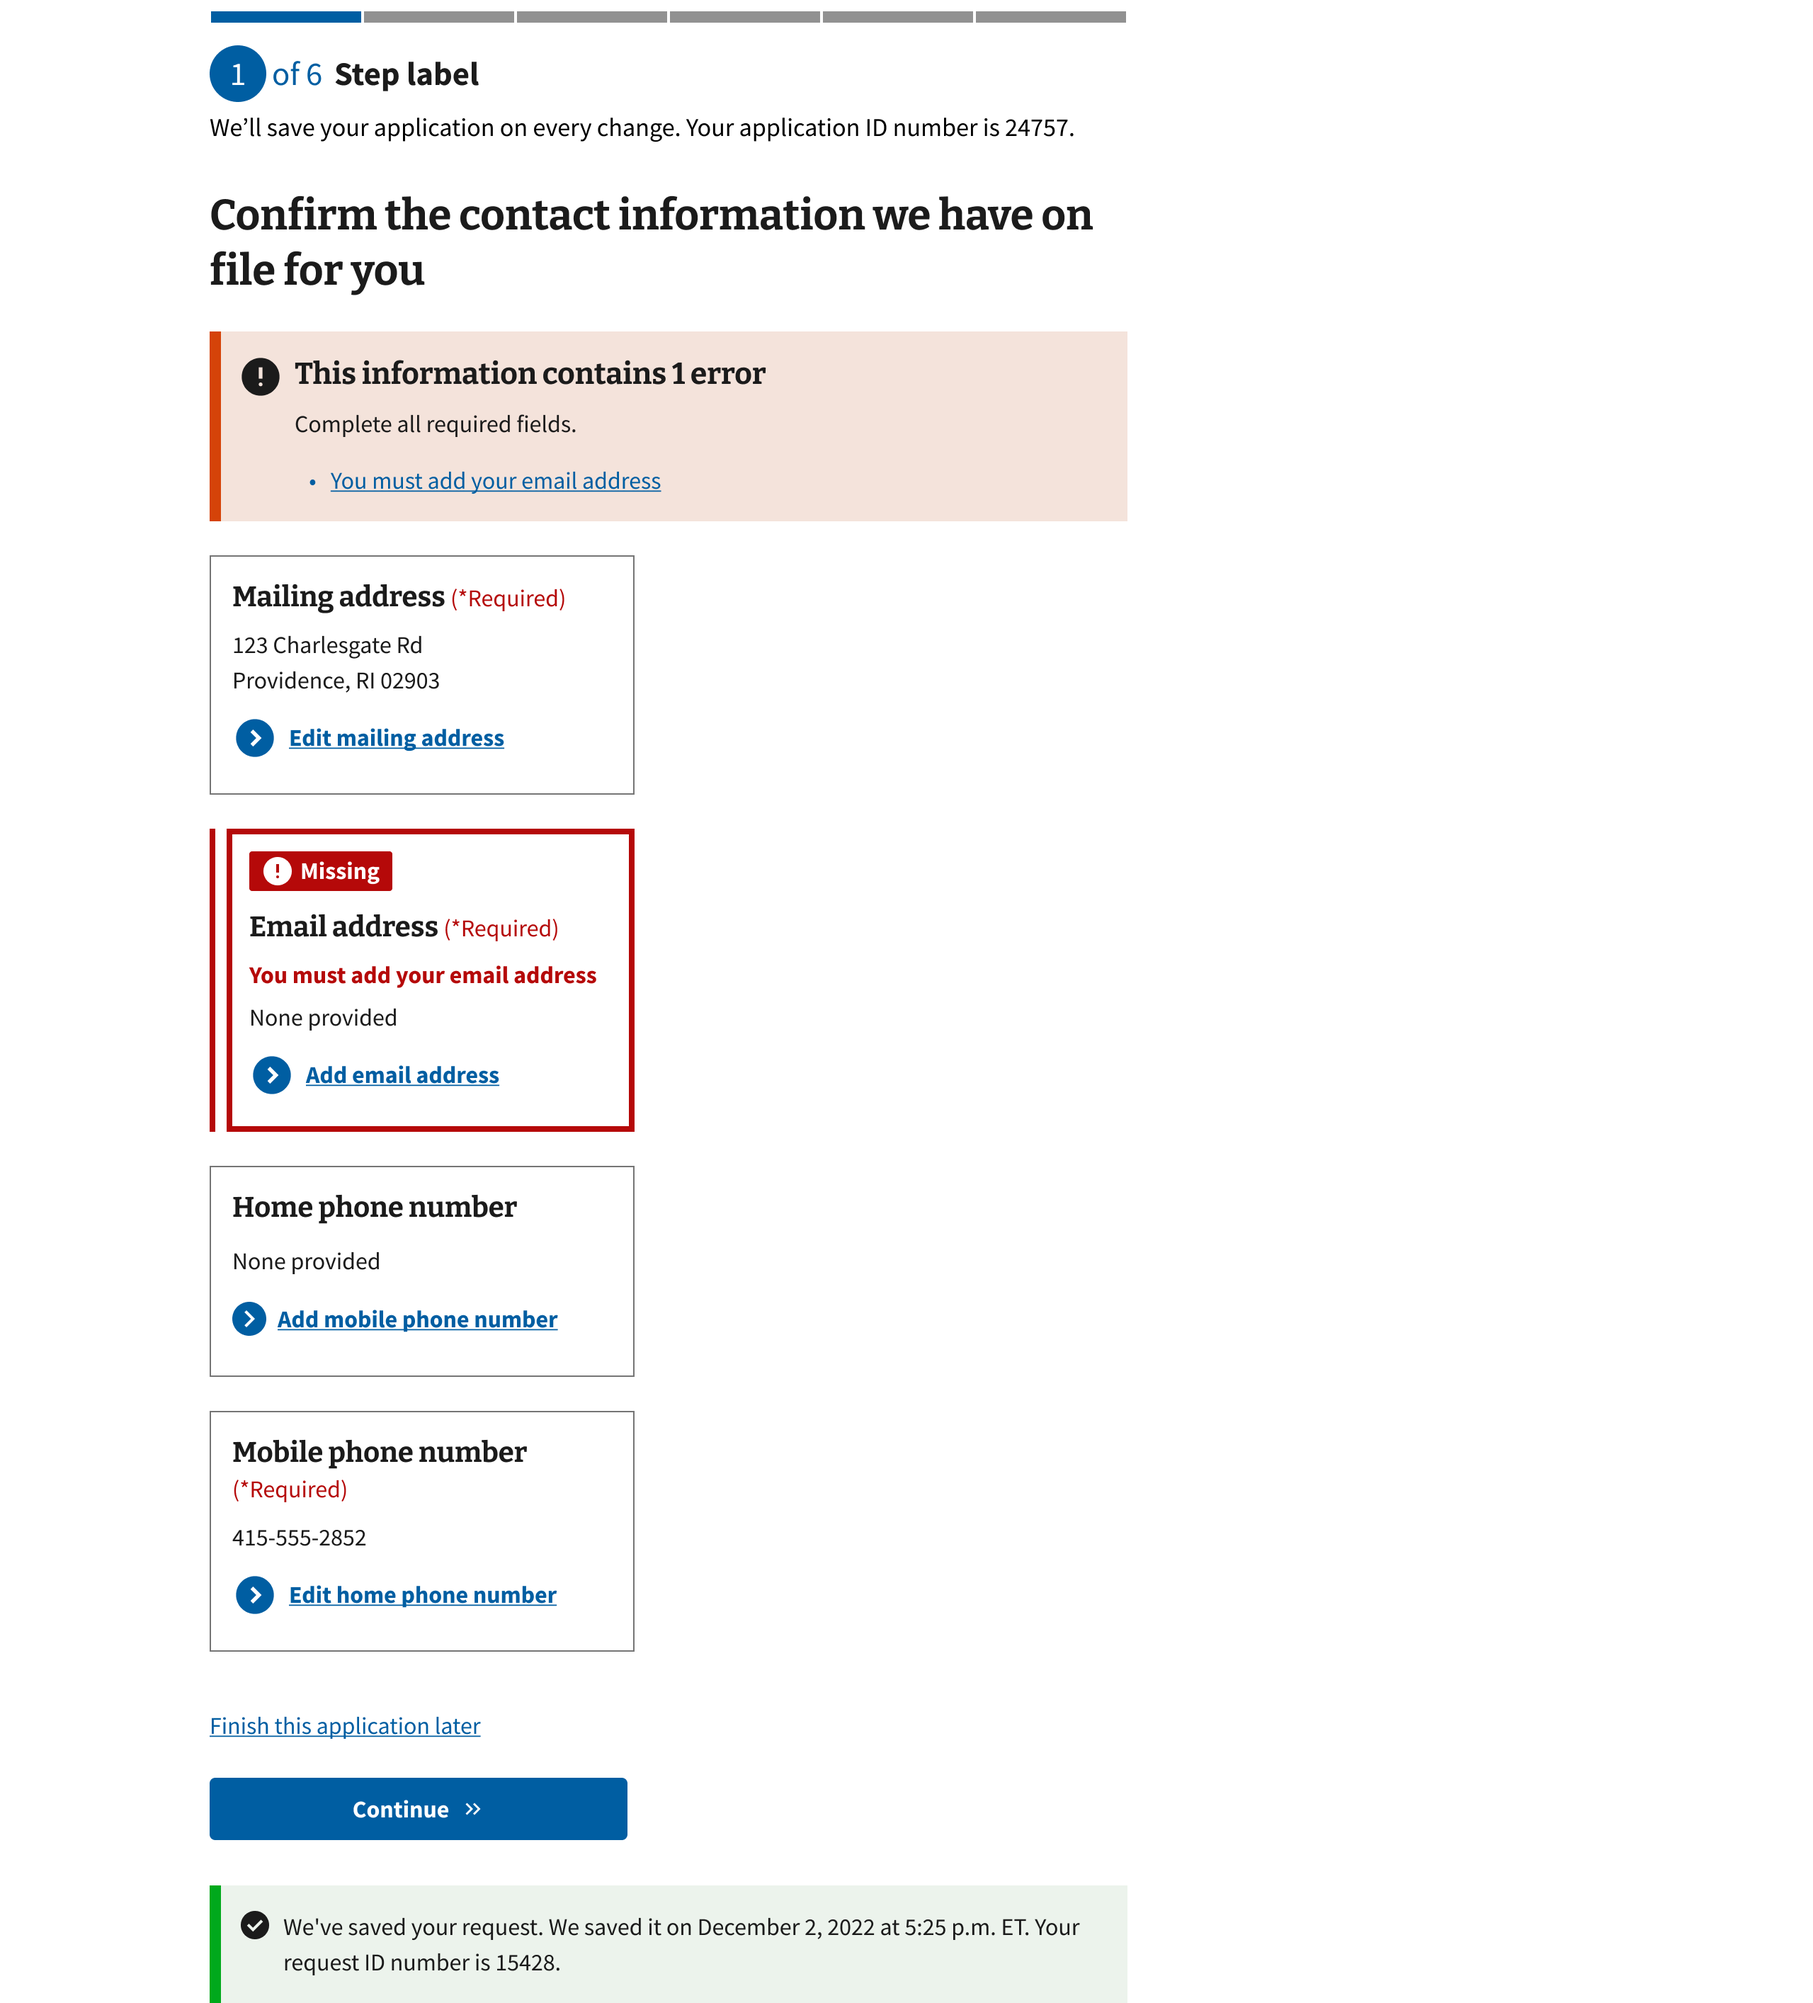
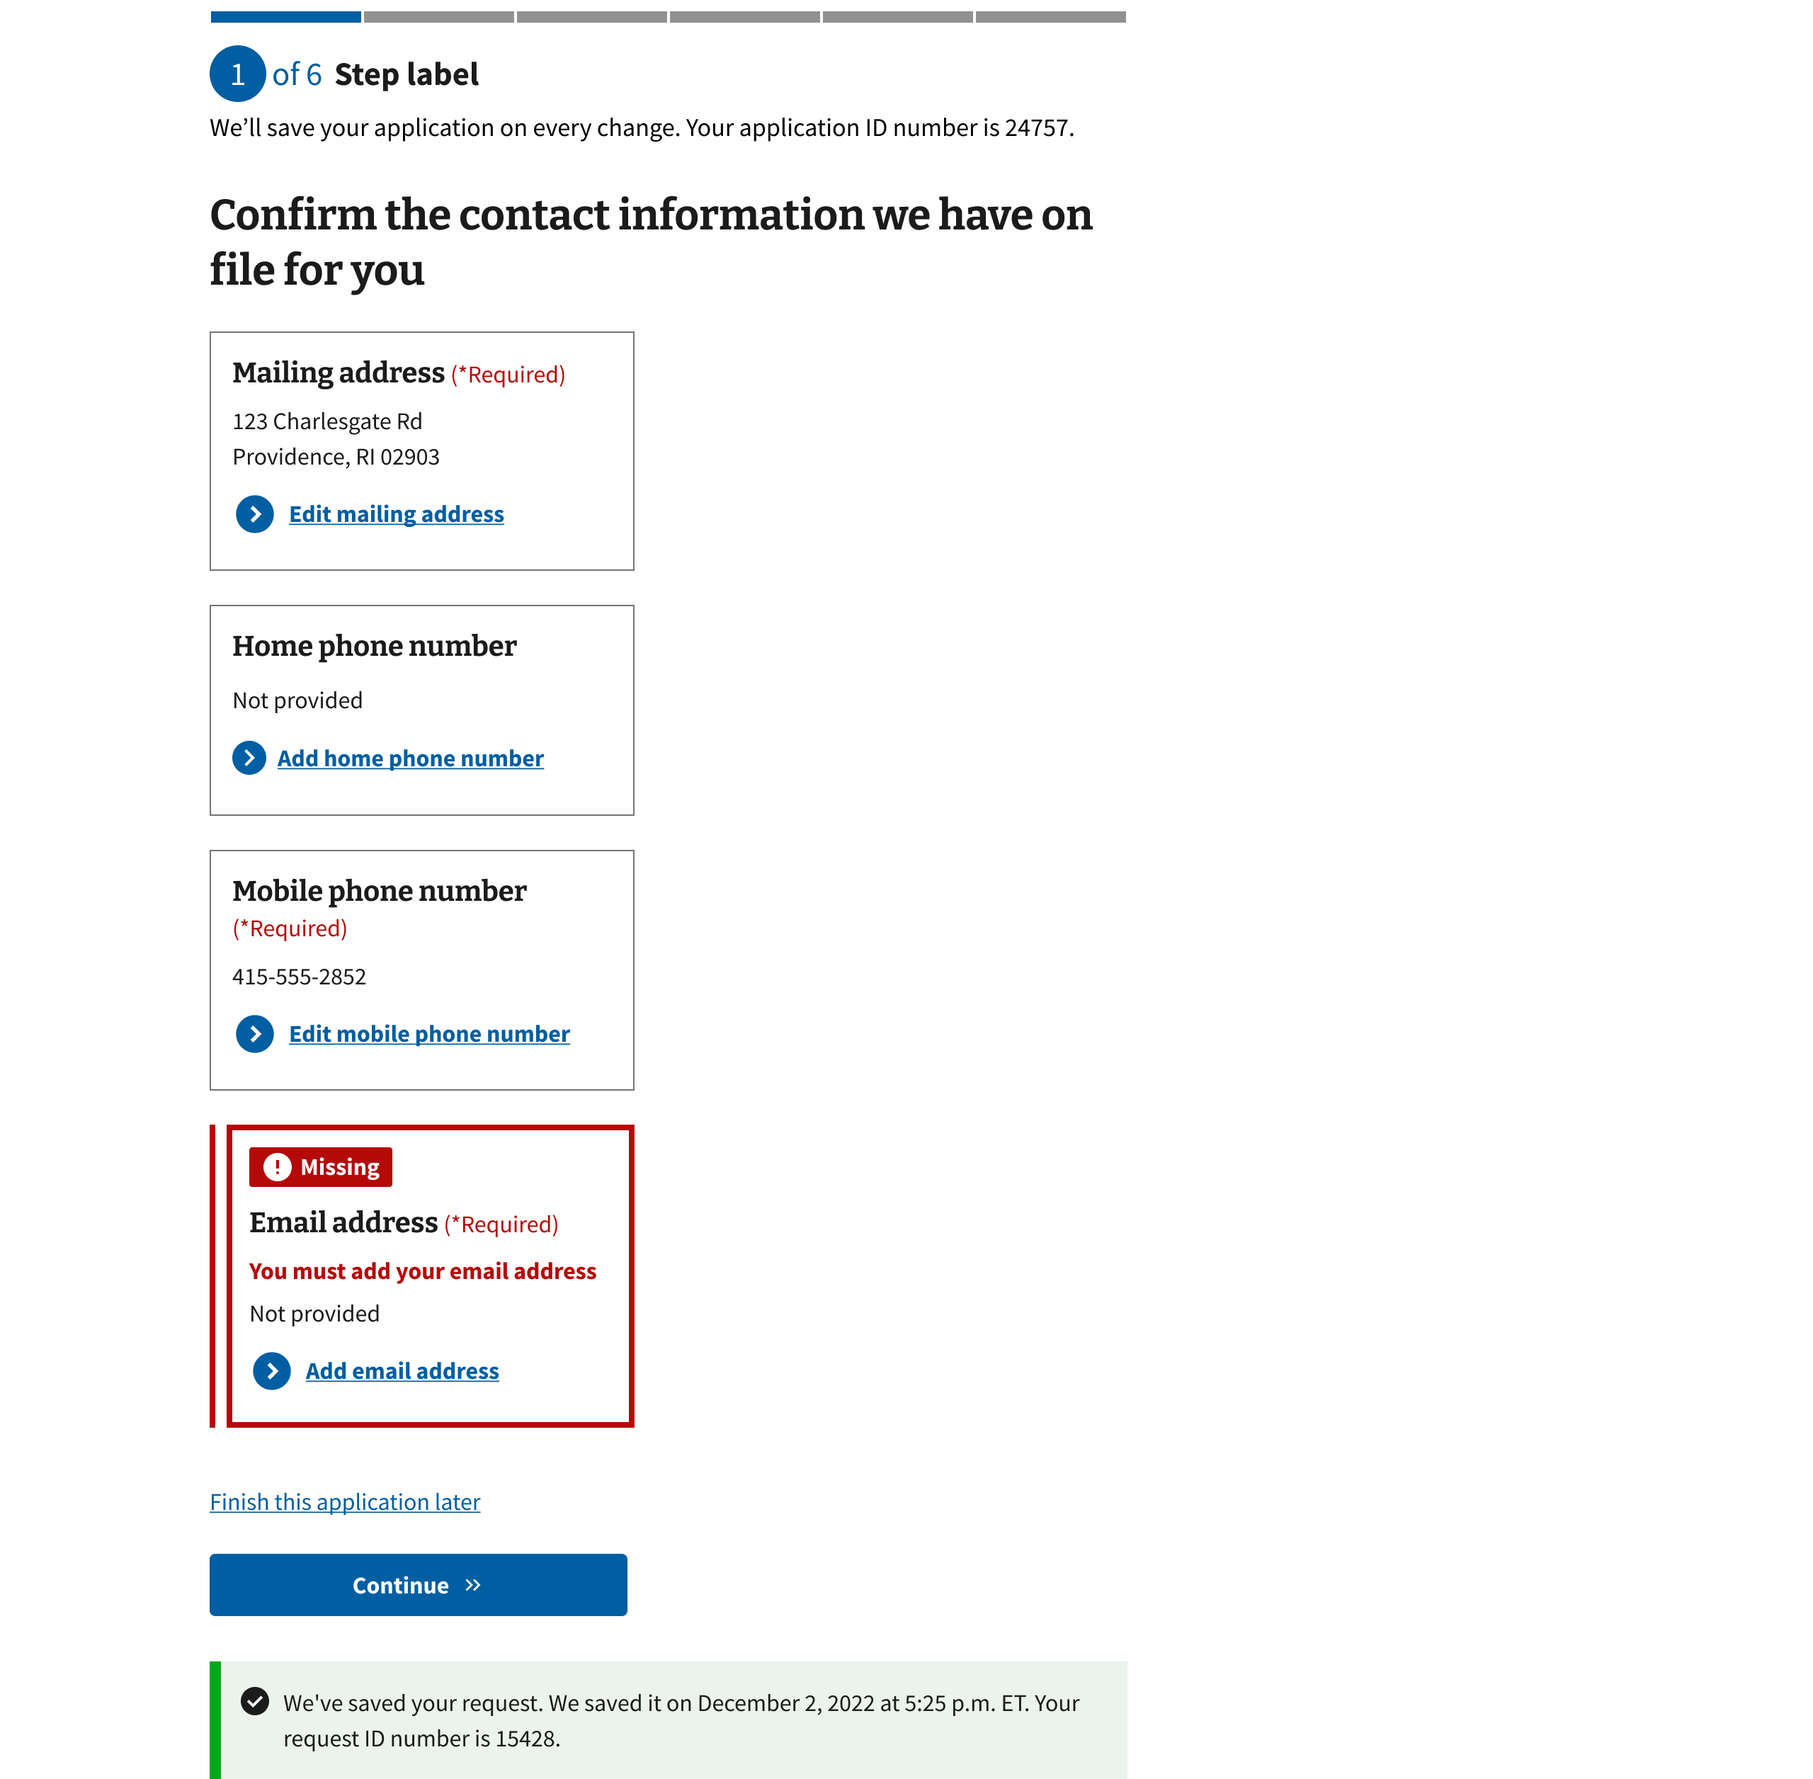
Update prefilled information - Remove error summary from error state

diff --git a/src/_patterns/help-users-to/update-prefilled-information.md b/src/_patterns/help-users-to/update-prefilled-information.md
@@ -95,9 +95,9 @@ There may be instances where some information that would usually be prefilled is
 
 {% include component-example.html class="x2" alt="A page showing users they have missing and required information they will need to add." file="/images/patterns/help-users-to/update-prefilled-information/missing-prefilled-info.png" %}
 
-If the user does not provide the required missing information and selects the "Continue" button to try and move forward, they'll get the same page with that status card in an error state and some red error text telling them what information they need to provide. Once they select "Add" and provide the information on an edit page, they will be redirected back to this screen and can continue through the form.
+If the user does not provide the required missing information and selects the "Continue" button to try and move forward, they'll get the same page with that status card in an error state and red error text telling them what information they need to provide. Once they select "Add" and provide the information on an edit page, they will be redirected back to this screen and can continue through the form.
 
-{% include component-example.html class="x2" alt="A page showing users an error alert and error state of the card with missing and required information they need to add." file="/images/patterns/help-users-to/update-prefilled-information/card-with-missing-info-error-state.png" %}
+{% include component-example.html class="x2" alt="A page showing users an error state of the card with missing and required information they need to add." file="/images/patterns/help-users-to/update-prefilled-information/card-with-missing-info-error-state.png" %}
 
 #### Communicate when and where we'll save updates to prefilled information
 
